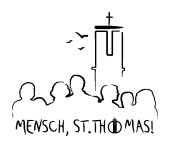
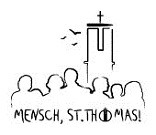
partner

diff --git a/partner.html b/partner.html
@@ -67,8 +67,11 @@
 						<img src="bilder/logofk.png"> 
 						<a href ="#">Friedenskirche Stadtbergen</a>
 						<p>
-						<img src="bilder/logo_st_paul_.gif"> 
-						<a href="#">Sankt Paul Pfersee</a>
+						<img src="bilder/stpaul.png"> 
+						<a href="#">Sankt Paul Augsburg-Pfersee</a>
+						<p>
+						<img src="bilder/stthomas.jpg"> 
+						<a href="#">Sankt Thomas Augsburg-Kriegshaber</a>
 						</div>
                             
                             </div>
